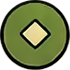
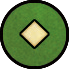
调整地点图标为69*69，并模仿官方卡牌噪点

diff --git a/Card.py b/Card.py
@@ -934,7 +934,7 @@ class Card:
         im = self.image_manager.get_image(f'地点标识-{icon}')
         if index == 0:
             self.paste_image(self.image_manager.get_image(f'地点标识-标识底'), (15, 8), 'contain')
-            self.paste_image(im, (20, 13), 'contain')
+            self.paste_image(im, (21, 14), 'contain')
         elif 0 < index < 7:
             self.paste_image(im, link_position[index - 1], 'contain')
 
